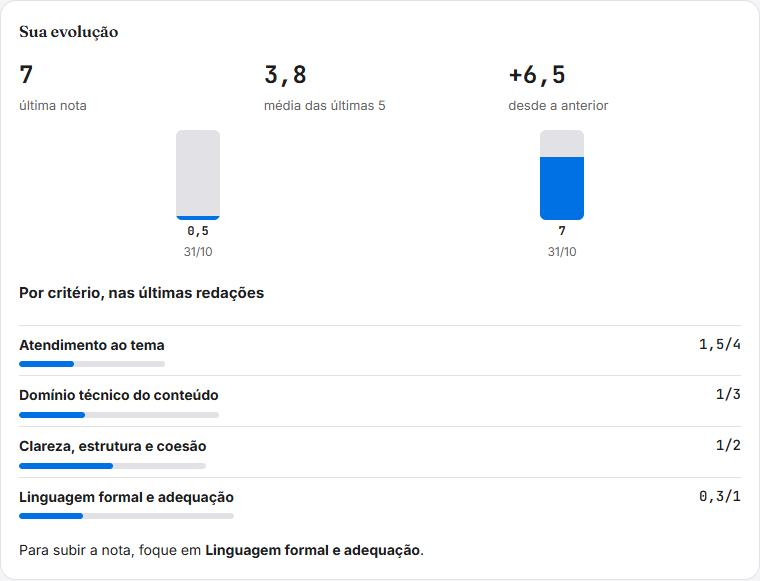
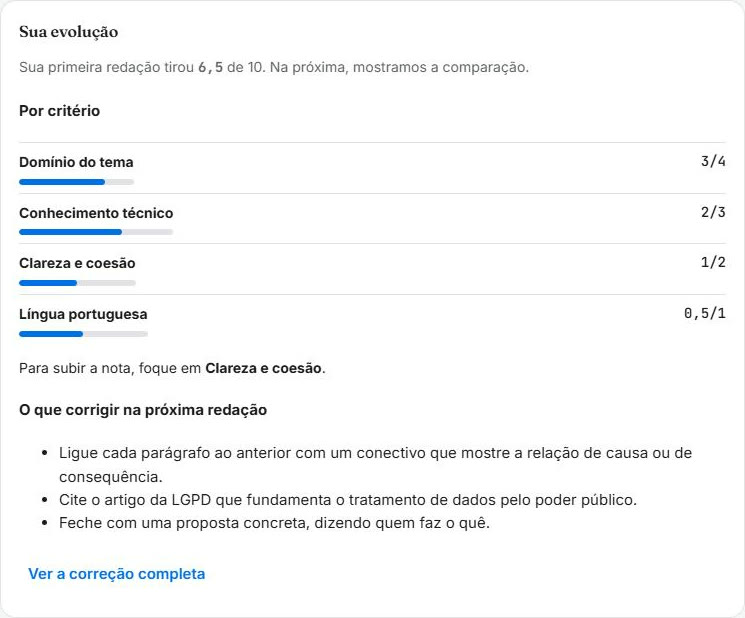
v1.8: QA, novidades com prints novos e correções do QA

diff --git a/js/nucleo/cronograma.js b/js/nucleo/cronograma.js
@@ -84,19 +84,21 @@ export function linkAgenda(item, prova = '') {
     action: 'TEMPLATE',
     text: prova ? `${item.evento} · ${prova}` : item.evento,
     dates: `${so(item.inicio)}/${so(diaSeguinte(fimDe(item)))}`,
-    details: 'Data do cronograma do edital, guardada pelo SIPC. Confira sempre no edital.',
+    details: detalhe(item),
   });
   return 'https://calendar.google.com/calendar/render?' + p.toString();
 }
 
-const DETALHE = 'Data do cronograma do edital, guardada pelo SIPC. Confira sempre no edital.';
-const titulo = (item, prova) => prova ? `${item.evento} · ${prova}` : item.evento;
+const DETALHE_EDITAL = 'Data do cronograma do edital, guardada pelo SIPC. Confira sempre no edital.';
+const DETALHE_ALUNO = 'Data que você adicionou no SIPC.';
+const detalhe = i => i.manual ? DETALHE_ALUNO : DETALHE_EDITAL;
+const titulo =(item, prova) => prova ? `${item.evento} · ${prova}` : item.evento;
 
 // Outlook (conta pessoal): o fim de dia inteiro também é exclusivo.
 export function linkOutlook(item, prova = '') {
   const p = new URLSearchParams({
     path: '/calendar/action/compose', rru: 'addevent', allday: 'true',
-    subject: titulo(item, prova), startdt: item.inicio, enddt: diaSeguinte(fimDe(item)), body: DETALHE,
+    subject: titulo(item, prova), startdt: item.inicio, enddt: diaSeguinte(fimDe(item)), body: detalhe(item),
   });
   return 'https://outlook.live.com/calendar/0/deeplink/compose?' + p.toString();
 }
@@ -134,7 +136,7 @@ export function gerarIcs(lista, prova = '', agora = new Date()) {
     linhas.push('BEGIN:VEVENT',
       'UID:' + so(i.inicio) + '-' + escIcs(i.evento.toLowerCase().replace(/[^a-z0-9]+/g, '-')).slice(0, 60) + '@sipc',
       'DTSTAMP:' + carimbo, 'DTSTART;VALUE=DATE:' + so(i.inicio), 'DTEND;VALUE=DATE:' + so(diaSeguinte(fimDe(i))),
-      'SUMMARY:' + escIcs(t), 'DESCRIPTION:' + escIcs(DETALHE),
+      'SUMMARY:' + escIcs(t), 'DESCRIPTION:' + escIcs(detalhe(i)),
       ...alarme('-PT15H', t + ' é amanhã.'),
       ...(i.manual ? [] : alarme('-P1DT15H', 'Confira se saiu retificação do edital antes de: ' + t)),
       'END:VEVENT');

diff --git a/js/datas.js b/js/datas.js
@@ -57,7 +57,7 @@ async function lerDatas(){
     if(!novas.length) throw new Error('Não encontrei datas ' + (textos.length>1?'nestes arquivos':'neste arquivo') + '. Se o cronograma é um documento separado, envie-o junto ou adicione as datas abaixo. Nada foi alterado.');
     if(semTexto.length) avisar('Não consegui ler: ' + semTexto.join(', ') + '. As datas vieram dos outros.');
     await salvarCronograma(SIPC.cronograma.atualizarCronograma(S.cronograma, novas));
-    avisar('Cronograma atualizado com ' + novas.length + ' datas. Confira com o edital.');
+    avisar('Cronograma atualizado com ' + novas.length + (novas.length===1?' data':' datas') + '. Confira com o edital.');
   }catch(e){ S.dtErro2 = mensagemIA(e); }
   S.dtLendo = false; render(true);
 }
@@ -88,7 +88,7 @@ function abaDatas(){
   return `<div class="datas">
     <section class="bloco">
       <h2 style="font-size:20px;margin-bottom:6px">Cronograma do concurso</h2>
-      <p class="dim" style="font-size:14px;margin:0 0 14px">As datas que você não pode perder. A leitura pode errar: confira sempre no edital. Ponha as datas na sua agenda (<b>Google</b>, <b>Outlook</b> ou o arquivo para qualquer agenda) para receber o aviso mesmo com o SIPC fechado. Dois dias antes de cada data do edital, eu lembro você de conferir se saiu retificação.</p>
+      <p class="dim" style="font-size:14px;margin:0 0 14px">As datas que você não pode perder. A leitura pode errar: confira sempre no edital. Ponha as datas na sua agenda para ser avisado mesmo com o SIPC fechado.</p>
       ${conferirRetificacaoNota()}
       ${lista.length ? `<ul class="data-lista">${lista.map(x=>linhaData(x.i,x.k,false)).join('')}</ul>
       <button class="btn link" onclick="baixarIcs()">${ico('calendar')} Baixar todas para qualquer agenda (.ics)</button>` : `<p class="vazio">${todas.length?'Todas as datas já passaram.':'Nenhuma data ainda. Envie o edital abaixo: eu procuro as datas no arquivo inteiro.'}</p>`}

diff --git a/js/ajuda.js b/js/ajuda.js
@@ -71,8 +71,8 @@ const AJUDA = [
 const CHAVE_VISTA = 'sipc::novidade-vista';
 // O que a versão atual permite fazer: alimenta o alerta e o topo da aba Novidades.
 const DESTAQUES = [
-  {titulo:'Ver o seu domínio em cada matéria', texto:'Cada tópico vira um quadrado no Painel, e cada matéria mostra o próximo tópico para estudar.', img:'img/novidades/dominio.jpg', alt:'Painel com os tópicos de cada matéria em quadrados coloridos por nível', guia:'dominio'},
-  {titulo:'Achar tudo no menu novo', texto:'As seções ficam em grupos, e tocar no nome da prova troca de trilha.', img:'img/novidades/menu.jpg', alt:'Menu lateral com a trilha aberta e os grupos Estudar, Acompanhar e Geral', guia:'menu'},
+  {titulo:'Levar as datas para qualquer agenda', texto:'Cada data vai para o Google ou o Outlook, ou baixe o arquivo para a agenda do celular. Dois dias antes, o SIPC lembra de conferir a retificação.', img:'img/novidades/datas.jpg', alt:'Aba Datas com os botões Google e Outlook em cada data e o aviso para conferir a retificação', guia:'datas'},
+  {titulo:'Ver o detalhe já na primeira redação', texto:'A aba Discursiva mostra a nota por critério e o que corrigir desde a primeira correção.', img:'img/novidades/evolucao.jpg', alt:'Quadro Sua evolução com as notas por critério e a lista do que corrigir', guia:'evolucao'},
 ];
 // Abre a tela de cada passo. Trocar de tipo de treino não apaga o que o aluno escreveu.
 const guiaDC = (tipo, passo, mao) => () => { S.aba = 'discursiva'; if(DC().tipo !== tipo) dcTipo(tipo); const d = DC(); if(passo) d.passo = passo; if(mao != null) d.mao = mao; render(true); };

diff --git a/qa/relatorio-2026-11-08.md b/qa/relatorio-2026-11-08.md
@@ -1,0 +1,37 @@
+# QA — SIPC v1.8 — 08/11/2026
+
+## Resumo
+Modo: regressão focada no que mudou na v1.8. Ambiente: local (localhost:5502, branch `feature/v1.8`).
+11 cenários novos (CT-19 a CT-29), 11 executados. Bugs: 0 alta, 1 média, 2 baixa, todos corrigidos.
+Veredito: pronto para publicar, com os testes em produção da Cobertura feitos pelo Victor depois.
+
+## Bugs
+### BUG-01 — Alerta de Novidades listava a v1.7 (média) — corrigido
+- Onde: `js/ajuda.js`, `DESTAQUES`.
+- Aconteceu: o alerta "Novidades na versão 1.8" mostrava "Ver o seu domínio" e "Achar tudo no menu novo".
+- Correção: destaques da v1.8 (agenda e primeira redação), com prints novos em `img/novidades/datas.jpg` e `evolucao.jpg` (dados de exemplo).
+
+### BUG-02 — Data do aluno ia para a agenda como "data do edital" (baixa) — corrigido
+- Onde: `js/nucleo/cronograma.js` (Google, Outlook e .ics).
+- Correção: data do aluno leva "Data que você adicionou no SIPC."
+
+### BUG-03 — "Cronograma atualizado com 1 datas" (baixa, anterior à v1.8) — corrigido
+- Onde: `js/datas.js`, `lerDatas`.
+
+## Usabilidade
+- O texto de abertura da aba Datas ficou longo no celular. Foi encurtado; o lembrete de retificação aparece como nota só quando há data perto.
+- O link "Baixar todas para qualquer agenda (.ics)" fica um pouco recuado por causa do padding do botão-link; igual aos outros links do app.
+
+## Segurança
+- Nenhuma mudança nas Regras do Firestore. O cache de vídeos usa um id novo a cada 30 dias, criado com as Regras atuais; só o admin apaga.
+- O .ics é gerado no navegador, com o texto escapado (`;`, `,`, `\`, quebras de linha) e linhas de no máximo 75 bytes (testes).
+- Os nomes das datas continuam passando por `escHtml` na tela.
+
+## Cobertura
+- **Não testado com IA real:** em localhost a IA responde 403 (App Check sem token de depuração). A leitura de vários arquivos e as questões foram testadas com a IA simulada; a qualidade da resposta da IA com vários arquivos só dá para ver em produção.
+- **Não testado com login:** gravação no Firestore, Admin real (botão de apagar vídeos), cache de vídeos com a chave real.
+- **Não testado:** abrir o .ics no Outlook, Google e iPhone de verdade; link do Outlook com conta de trabalho; notificação do navegador.
+- Testes automatizados de navegador (Playwright) não foram criados: o projeto não tem Playwright instalado.
+
+## Testes automatizados
+`npm test`: 144 testes, todos passando (novos: Outlook, .ics, retificação, vários arquivos, cache de 30 dias, evolução com uma redação).

diff --git a/qa/cenarios.md b/qa/cenarios.md
@@ -48,3 +48,21 @@ Prioridade = impacto × probabilidade. Última rodada: 23/10/2026 (v1, commit cd
 | CT-16 | média | Produção: headers, `.git`, source maps, dados no localStorage | nada sensível exposto | parcial: `.git` ok; `legado/` sai do ar ao publicar; sem CSP (risco aceito) |
 | CT-17 | baixa | favicon, título, idioma da página | sem 404 no console | passou (reteste 23/10) |
 | CT-18 | alta | Login real, gravação no Firestore, Reportar real, Admin real | dados persistem; Admin só para o Victor | passou com a conta do Victor (24/10): perfil, aceite, trilha, sessões e Reportar no Firestore; reporte visível no Admin |
+
+## v1.8 (08/11/2026, branch `feature/v1.8`)
+
+Executados em localhost:5502, sem conta, com trilha de exemplo injetada e IA simulada (a IA real dá 403 em localhost sem o token de depuração do App Check).
+
+| ID | Prioridade | Cenário | Esperado | Resultado |
+|---|---|---|---|---|
+| CT-19 | alta | Datas: X em data do edital e em data do aluno; chamar `removerData` direto numa data do edital | X só na data do aluno; a do edital não sai | passou |
+| CT-20 | alta | Datas: botões Google e Outlook | links com título, dia inteiro e fim exclusivo; texto diferente para data do aluno | passou (após corrigir BUG-02) |
+| CT-21 | alta | Baixar .ics | `text/calendar`, só datas futuras, alarme na véspera e de retificação só nas do edital | passou (4 eventos, 7 alarmes) |
+| CT-22 | média | Lembrete de retificação 2 dias antes | nota na aba Datas, no aviso de Hoje e no lembrete do navegador | passou (nota e aviso; notificação do navegador não testada) |
+| CT-23 | alta | Vários arquivos (2 válidos + 1 sem texto); 6 arquivos | uma chamada de IA com a lista; 6 recusados com mensagem | passou |
+| CT-24 | média | Discursiva com uma redação | critérios, ponto fraco, até 3 itens a corrigir, botão abre a correção | passou |
+| CT-25 | média | IA entrega 8 de 10 questões | aviso "Vieram 8 de 10" com gerar de novo | passou |
+| CT-26 | média | Alerta de Novidades da versão nova | lista o que a v1.8 trouxe | passou (após corrigir BUG-01) |
+| CT-27 | média | Datas em 375px | sem rolagem lateral | passou |
+| CT-28 | baixa | privacidade.html cita o YouTube | seção com links dos termos | passou |
+| CT-29 | média | Admin: apagar vídeos vencidos | botão aparece; apaga só os vencidos | parcial: botão e função existem; exclusão real não testada (precisa login de admin) |
